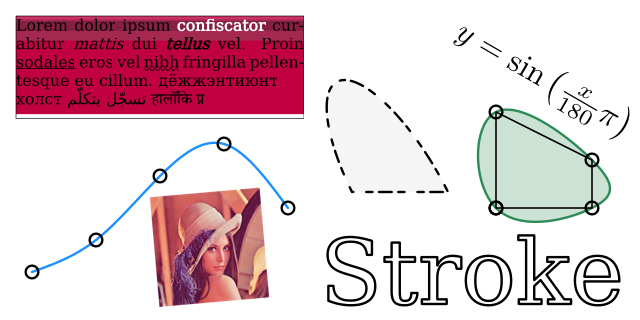
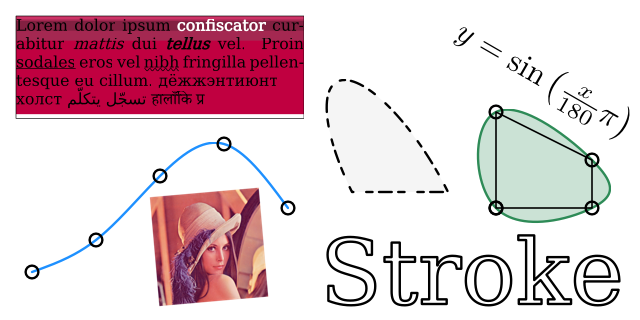
Update preview

Changed region(s): [[0.25, 0.5938, 0.4375, 0.9688], [0.4062, 0.75, 0.4375, 0.7812]]

diff --git a/examples/opengl/main.go b/examples/opengl/main.go
@@ -101,9 +101,9 @@ func drawText(c *canvas.Context, x, y float64, face *canvas.FontFace, rich *canv
 
 	c.SetFillColor(color.RGBA{192, 0, 64, 255})
 	c.DrawPath(x, y, text.Bounds().ToPath())
-	c.SetFillColor(color.RGBA{50, 50, 50, 50})
+	c.SetFillColor(color.RGBA{51, 51, 51, 51})
 	c.DrawPath(x, y, canvas.Rectangle(width, -metrics.LineHeight))
-	c.SetFillColor(color.RGBA{0, 0, 0, 50})
+	c.SetFillColor(color.RGBA{0, 0, 0, 51})
 	c.DrawPath(x, y+metrics.CapHeight-metrics.Ascent, canvas.Rectangle(width, -metrics.CapHeight-metrics.Descent))
 	c.DrawPath(x, y+metrics.XHeight-metrics.Ascent, canvas.Rectangle(width, -metrics.XHeight))
 

diff --git a/examples/fyne/main.go b/examples/fyne/main.go
@@ -54,9 +54,9 @@ func drawText(c *canvas.Context, x, y float64, face *canvas.FontFace, rich *canv
 
 	c.SetFillColor(color.RGBA{192, 0, 64, 255})
 	c.DrawPath(x, y, text.Bounds().ToPath())
-	c.SetFillColor(color.RGBA{50, 50, 50, 50})
+	c.SetFillColor(color.RGBA{51, 51, 51, 51})
 	c.DrawPath(x, y, canvas.Rectangle(width, -metrics.LineHeight))
-	c.SetFillColor(color.RGBA{0, 0, 0, 50})
+	c.SetFillColor(color.RGBA{0, 0, 0, 51})
 	c.DrawPath(x, y+metrics.CapHeight-metrics.Ascent, canvas.Rectangle(width, -metrics.CapHeight-metrics.Descent))
 	c.DrawPath(x, y+metrics.XHeight-metrics.Ascent, canvas.Rectangle(width, -metrics.XHeight))
 

diff --git a/examples/gio/main.go b/examples/gio/main.go
@@ -78,9 +78,9 @@ func drawText(c *canvas.Context, x, y float64, face *canvas.FontFace, rich *canv
 
 	c.SetFillColor(color.RGBA{192, 0, 64, 255})
 	c.DrawPath(x, y, text.Bounds().ToPath())
-	c.SetFillColor(color.RGBA{50, 50, 50, 50})
+	c.SetFillColor(color.RGBA{51, 51, 51, 51})
 	c.DrawPath(x, y, canvas.Rectangle(width, -metrics.LineHeight))
-	c.SetFillColor(color.RGBA{0, 0, 0, 50})
+	c.SetFillColor(color.RGBA{0, 0, 0, 51})
 	c.DrawPath(x, y+metrics.CapHeight-metrics.Ascent, canvas.Rectangle(width, -metrics.CapHeight-metrics.Descent))
 	c.DrawPath(x, y+metrics.XHeight-metrics.Ascent, canvas.Rectangle(width, -metrics.XHeight))
 

diff --git a/examples/html-canvas/main.go b/examples/html-canvas/main.go
@@ -57,9 +57,9 @@ func drawText(c *canvas.Context, x, y float64, face *canvas.FontFace, rich *canv
 
 	c.SetFillColor(color.RGBA{192, 0, 64, 255})
 	c.DrawPath(x, y, text.Bounds().ToPath())
-	c.SetFillColor(color.RGBA{50, 50, 50, 50})
+	c.SetFillColor(color.RGBA{51, 51, 51, 51})
 	c.DrawPath(x, y, canvas.Rectangle(width, -metrics.LineHeight))
-	c.SetFillColor(color.RGBA{0, 0, 0, 50})
+	c.SetFillColor(color.RGBA{0, 0, 0, 51})
 	c.DrawPath(x, y+metrics.CapHeight-metrics.Ascent, canvas.Rectangle(width, -metrics.CapHeight-metrics.Descent))
 	c.DrawPath(x, y+metrics.XHeight-metrics.Ascent, canvas.Rectangle(width, -metrics.XHeight))
 

diff --git a/examples/tex/main.go b/examples/tex/main.go
@@ -52,9 +52,9 @@ func drawText(c *canvas.Context, x, y float64, face *canvas.FontFace, rich *canv
 
 	c.SetFillColor(color.RGBA{192, 0, 64, 255})
 	c.DrawPath(x, y, text.Bounds().ToPath())
-	c.SetFillColor(color.RGBA{50, 50, 50, 50})
+	c.SetFillColor(color.RGBA{51, 51, 51, 51})
 	c.DrawPath(x, y, canvas.Rectangle(width, -metrics.LineHeight))
-	c.SetFillColor(color.RGBA{0, 0, 0, 50})
+	c.SetFillColor(color.RGBA{0, 0, 0, 51})
 	c.DrawPath(x, y+metrics.CapHeight-metrics.Ascent, canvas.Rectangle(width, -metrics.CapHeight-metrics.Descent))
 	c.DrawPath(x, y+metrics.XHeight-metrics.Ascent, canvas.Rectangle(width, -metrics.XHeight))
 

diff --git a/resources/preview/main.go b/resources/preview/main.go
@@ -51,9 +51,9 @@ func drawText(c *canvas.Context, x, y float64, face *canvas.FontFace, rich *canv
 
 	c.SetFillColor(color.RGBA{192, 0, 64, 255})
 	c.DrawPath(x, y, text.Bounds().ToPath())
-	c.SetFillColor(color.RGBA{50, 50, 50, 50})
+	c.SetFillColor(color.RGBA{51, 51, 51, 51})
 	c.DrawPath(x, y, canvas.Rectangle(width, -metrics.LineHeight))
-	c.SetFillColor(color.RGBA{0, 0, 0, 50})
+	c.SetFillColor(color.RGBA{0, 0, 0, 51})
 	c.DrawPath(x, y+metrics.CapHeight-metrics.Ascent, canvas.Rectangle(width, -metrics.CapHeight-metrics.Descent))
 	c.DrawPath(x, y+metrics.XHeight-metrics.Ascent, canvas.Rectangle(width, -metrics.XHeight))
 
